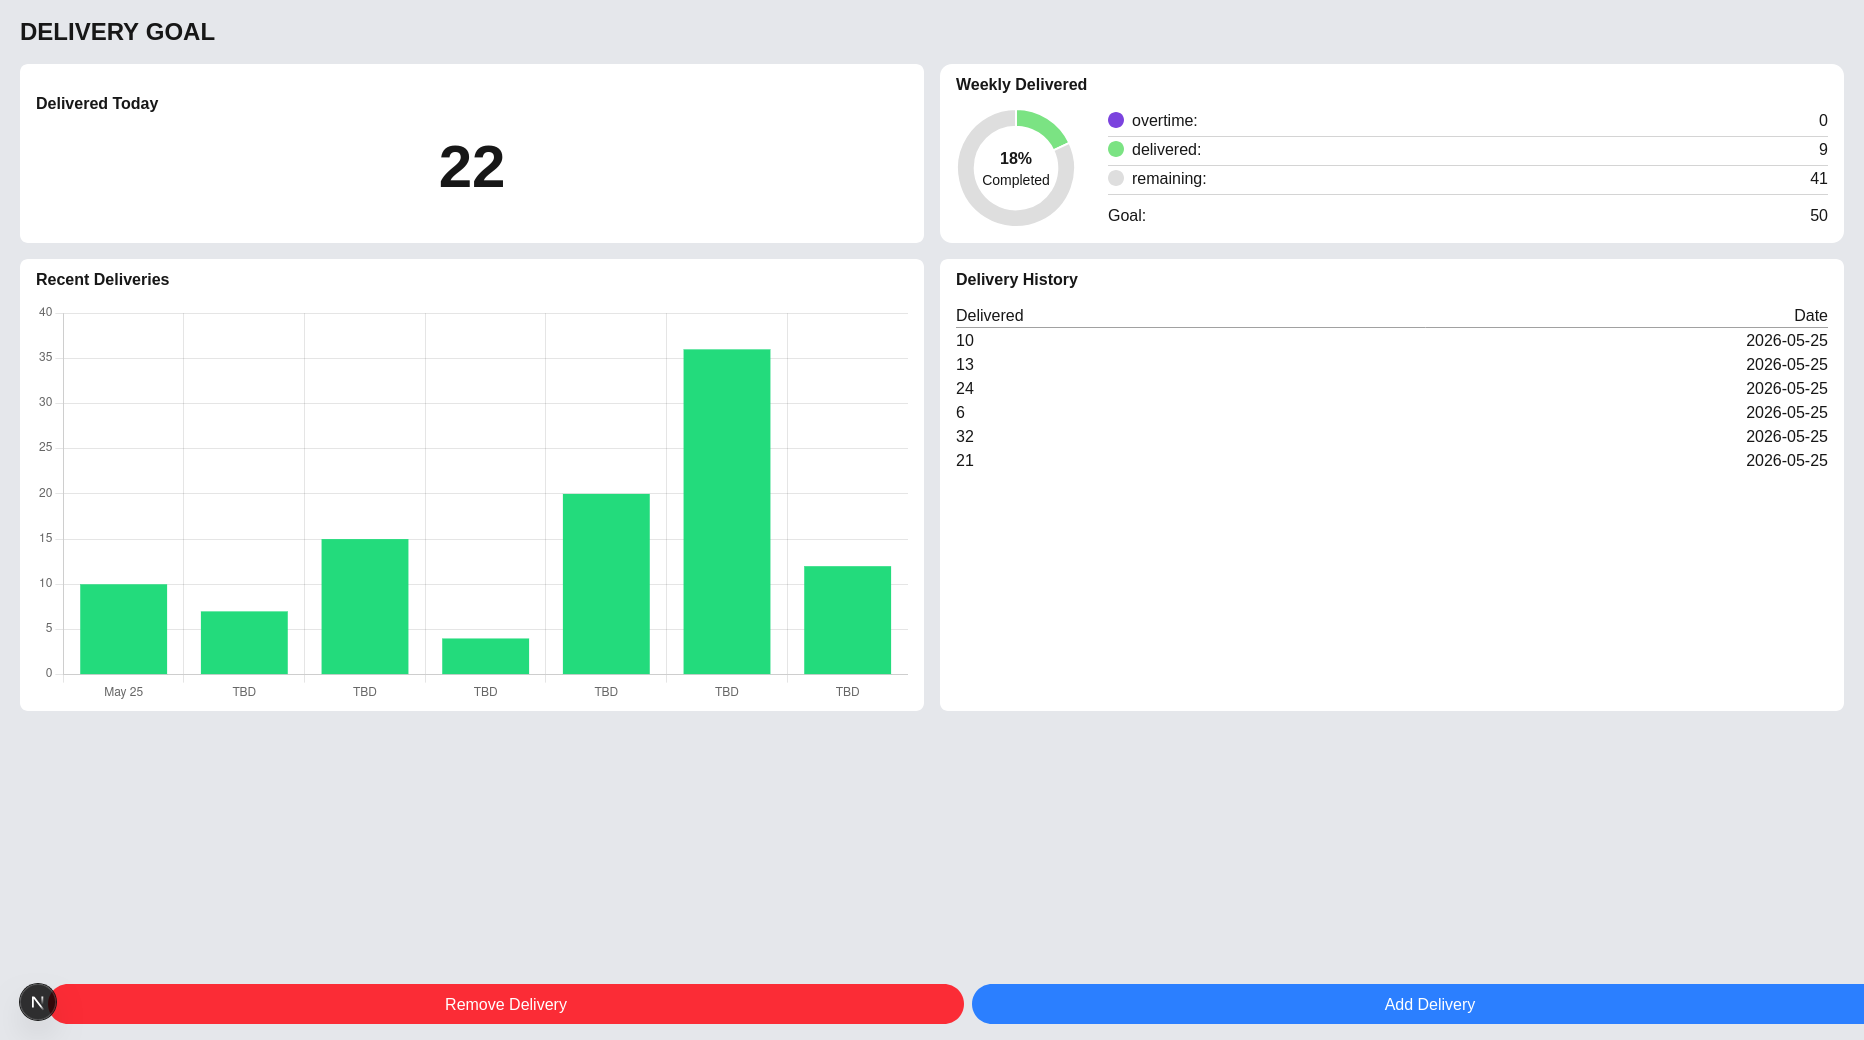
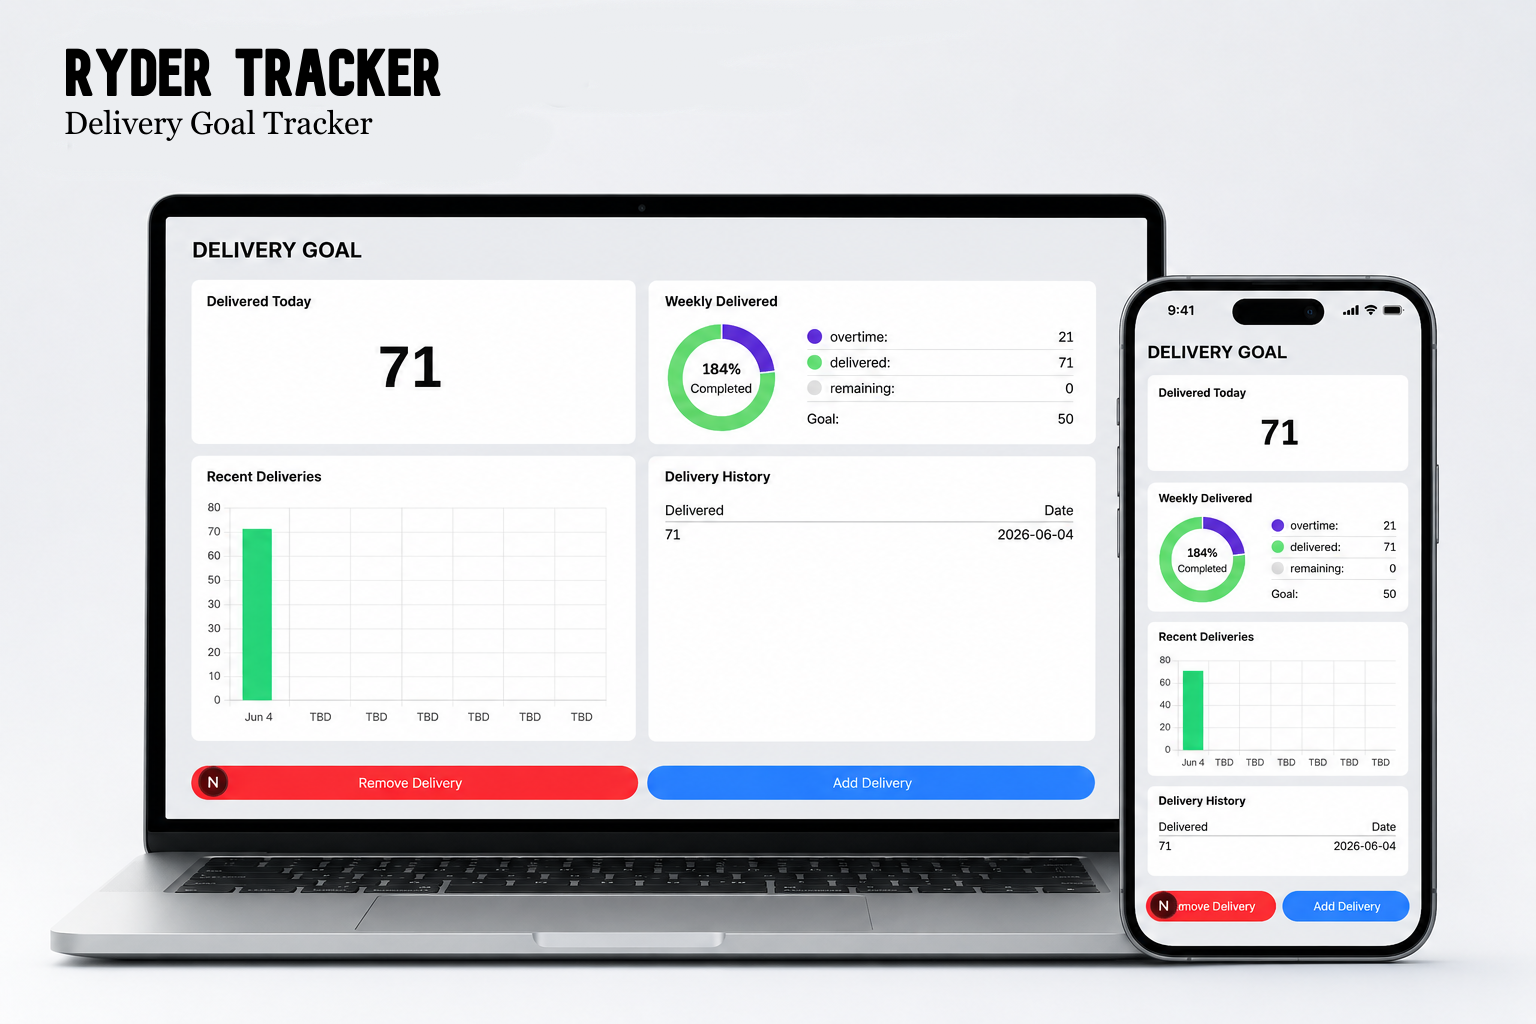
style: change ryder thumbnail and made date smaller on exp and educ

diff --git a/app/page.tsx b/app/page.tsx
@@ -129,7 +129,7 @@ export default function Home() {
                 <h4 className="font-bold text-white">Office Assistant</h4>
                 <p className="text-sm">Iloilo City Government</p>
               </div>
-              <p>May 2024 - June 2024</p>
+              <p className="text-sm">May 2024 - June 2024</p>
             </div>
           </section>
           <section className="md:p-0 w-full flex flex-col my-10 ">
@@ -141,7 +141,7 @@ export default function Home() {
                 </h4>
                 <p className="text-sm">B.S in Information Technology</p>
               </div>
-              <p>Expected 2028</p>
+              <p className="text-sm">Expected 2028</p>
             </div>
           </section>
           <section className="md:p-0 flex flex-col gap-3 my-10">